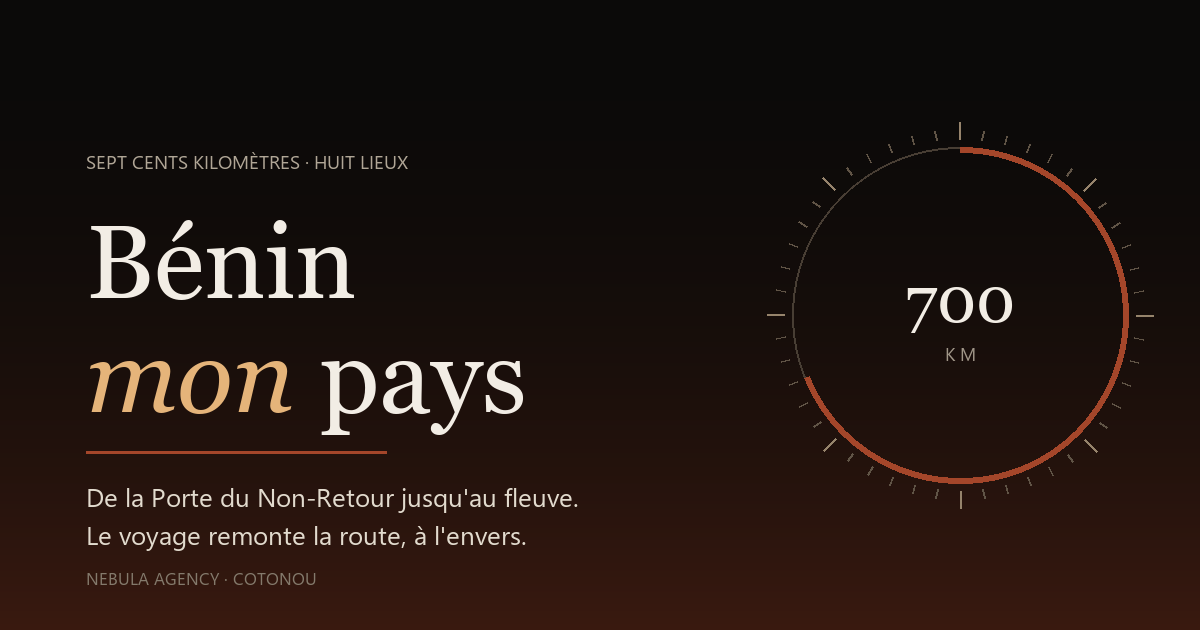
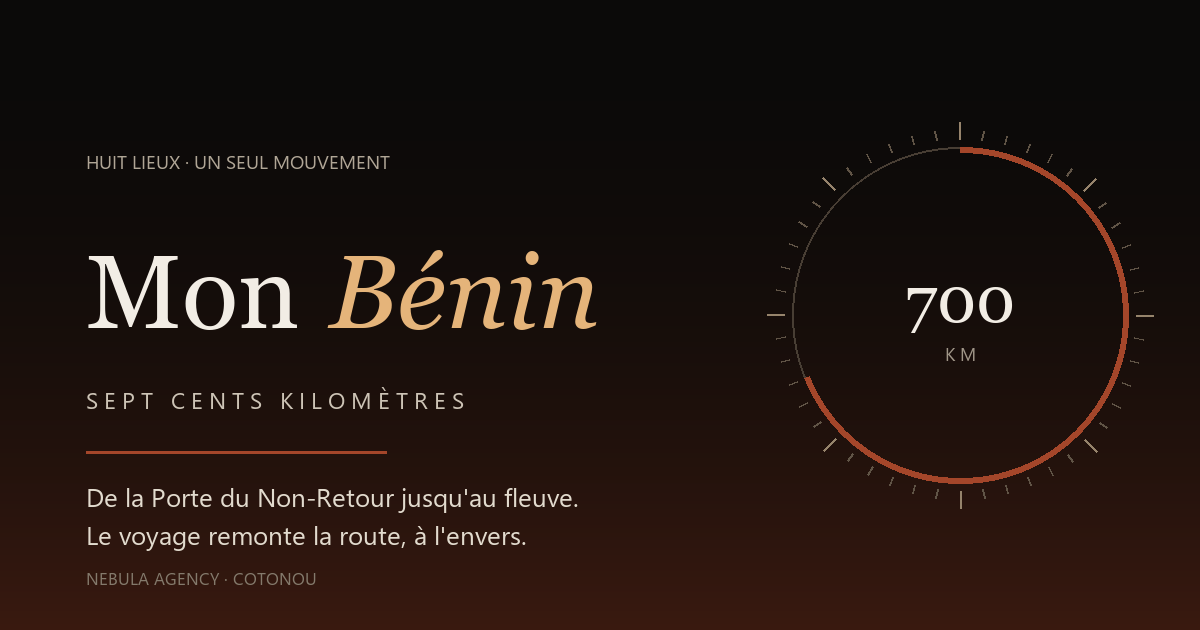
feat(mon-benin): le nom trancheD, la mise en ligne en dev, et 13 decisions actees
Mongazi a repondu aux questions. L'experience s'appelle desormais MON BENIN,
avec « sept cents kilometres » en signature, et elle est en ligne.

EN LIGNE (dev) : https://dev.mon-benin.pages.dev
Projet Cloudflare Pages « mon-benin », branche dev, production main (vide).
231 Ko la page entiere, 9 fichiers : la promesse des 3 secondes en 3G est
tenue par construction, pas par optimisation.

LES 13 DECISIONS
· nom MON BENIN + « sept cents kilometres »
· depart A LA PORTE du Non-Retour, on remonte la route a l'envers
· cible : la DIASPORA afro-descendante
· bilingue FR/EN des la sortie (consequence directe de la cible)
· 11 lieux : les 8 + Porto-Novo « retourner », Grand-Popo « meler »,
  Dassa « compter »
· photos sous licence a chercher, il en enverra d'autres
· sons generes, voix plus tard
· haltes d'artisans : oui, il demande leur accord
· l'annuaire d'entreprises est un SECOND objet, meme identite
· cap sur les Vodun Days de janvier
· vrai domaine plus tard, dev pour l'instant

CE QUI A ETE FAIT ICI
· renommage complet (titre, partage, JSON-LD, rideau, seuil, barre, pied)
  plus l'image de partage regeneree, et bump des ressources en 20260810a
· _dist.py : ne publie que ce qui doit l'etre, ecrit un 404.html (sans lui un
  fichier absent repond 200 et ce 200 est cache un an, panne vecue sur PISTE)
  et des en-tetes de cache qui epargnent index.html
· verification du CORPS servi, pas du code : chaque fichier est identique au
[…]

diff --git a/benin-mon-pays/index.html b/benin-mon-pays/index.html
@@ -3,25 +3,25 @@
 <head>
 <meta charset="utf-8">
 <meta name="viewport" content="width=device-width, initial-scale=1, viewport-fit=cover">
-<title>Bénin mon pays · De l'océan au fleuve</title>
+<title>Mon Bénin · Sept cents kilomètres, de l'océan au fleuve</title>
 <meta name="description" content="Un voyage de sept minutes à travers le Bénin, de la Porte du Non-Retour au fleuve Niger. Huit lieux, sept cents kilomètres, et le pays raconté par ceux qui le font.">
 <meta name="theme-color" content="#0b0a09">
 <meta name="author" content="NEBULA Agency">
 
 <meta property="og:type" content="website">
-<meta property="og:site_name" content="Bénin mon pays">
+<meta property="og:site_name" content="Mon Bénin">
 <meta property="og:locale" content="fr_FR">
-<meta property="og:title" content="Bénin mon pays · De l'océan au fleuve">
+<meta property="og:title" content="Mon Bénin · Sept cents kilomètres">
 <meta property="og:description" content="Sept cents kilomètres, huit lieux, un seul mouvement. Le Bénin comme vous ne l'avez jamais parcouru.">
-<meta property="og:image" content="assets/images/og.png?v=20260809a">
+<meta property="og:image" content="assets/images/og.png?v=20260810a">
 <meta property="og:image:width" content="1200">
 <meta property="og:image:height" content="630">
 <meta name="twitter:card" content="summary_large_image">
 
-<link rel="icon" href="assets/images/favicon.svg?v=20260809a" type="image/svg+xml">
+<link rel="icon" href="assets/images/favicon.svg?v=20260810a" type="image/svg+xml">
 <!-- Aucune police distante, aucune requête vers un tiers : la page doit
      s'ouvrir en moins de trois secondes sur un téléphone moyen en 3G. -->
-<link rel="stylesheet" href="assets/app.css?v=20260809a">
+<link rel="stylesheet" href="assets/app.css?v=20260810a">
 
 <script>document.documentElement.className = 'js';</script>
 
@@ -29,7 +29,7 @@
 {
   "@context": "https://schema.org",
   "@type": "TouristTrip",
-  "name": "Bénin mon pays, de l'océan au fleuve",
+  "name": "Mon Bénin, sept cents kilomètres de l'océan au fleuve",
   "description": "Un parcours de huit lieux à travers le Bénin, de la Porte du Non-Retour à Ouidah jusqu'au fleuve Niger, sur environ sept cents kilomètres.",
   "touristType": "Voyageur curieux du Bénin, diaspora afro-descendante",
   "itinerary": {
@@ -56,7 +56,7 @@
   <div class="rideau-h"></div>
   <div class="rideau-b"></div>
   <div class="rideau-c">
-    <p class="rideau-t">Bénin <i>mon</i> pays</p>
+    <p class="rideau-t">Mon <i>Bénin</i></p>
     <span class="rideau-f"></span>
     <p class="rideau-n"><b id="rideauN">0</b> <small>km</small></p>
   </div>
@@ -65,8 +65,9 @@
 <!-- ═══ LE SEUIL D'ENTRÉE (autorise le son) ═════════════════════ -->
 <div class="seuil" id="seuil" hidden>
   <div class="seuil-in">
-    <p class="seuil-k">Sept cents kilomètres · huit lieux</p>
-    <h1 class="seuil-t">Bénin <i>mon</i> pays</h1>
+    <p class="seuil-k">Huit lieux · un seul mouvement</p>
+    <h1 class="seuil-t">Mon <i>Bénin</i></h1>
+    <p class="seuil-sig">sept cents kilomètres</p>
     <p class="seuil-p">De la Porte du Non-Retour jusqu'au fleuve.<br>Le voyage remonte la route, à l'envers.</p>
     <button class="seuil-b" id="entrer" type="button">
       <span class="seuil-o" aria-hidden="true"></span>
@@ -78,7 +79,7 @@
 
 <!-- ═══ BARRE FIXE ══════════════════════════════════════════════ -->
 <header class="barre" id="barre">
-  <a class="barre-m" href="#station-0">Bénin mon pays</a>
+  <a class="barre-m" href="#station-0">Mon <i>Bénin</i></a>
   <nav class="barre-n" aria-label="Aller à un lieu">
     <button class="barre-b" id="ouvrirCarte" type="button" aria-expanded="false" aria-controls="carte">
       <span aria-hidden="true"></span><span aria-hidden="true"></span>
@@ -311,7 +312,7 @@
 
 <footer class="pied">
   <div class="pied-in">
-    <p class="pied-t">Bénin mon pays</p>
+    <p class="pied-t">Mon <i>Bénin</i></p>
     <p class="pied-p">Une expérience éditoriale indépendante, écrite et construite à Cotonou par <strong>NEBULA Agency</strong>.</p>
     <p class="pied-s">Les distances sont des latitudes converties en kilomètres depuis la côte, arrondies. Les dates et les faits cités sont publics et vérifiables. Aucune image de ce site ne prétend représenter un lieu qu'elle ne représente pas : les visuels sont des relevés dessinés, en attendant les photographies.</p>
     <p class="pied-c">© <span id="an">2026</span> NEBULA Agency · Cotonou, Bénin</p>
@@ -320,6 +321,6 @@
 
 <div class="curseur" id="curseur" aria-hidden="true"><span></span></div>
 
-<script src="assets/app.js?v=20260809a" defer></script>
+<script src="assets/app.js?v=20260810a" defer></script>
 </body>
 </html>

diff --git a/benin-mon-pays/assets/app.css b/benin-mon-pays/assets/app.css
@@ -162,7 +162,16 @@ body.rideau-la { overflow: hidden; }
 }
 .seuil-t i { font-style: italic; color: #d99a5e; }   /* 7,4:1 sur l'encre */
 
+/* La signature demandée par Mongazi, sous le nom. */
+.seuil-sig {
+  margin: 0 0 26px;
+  font-size: 11.5px; letter-spacing: .42em; text-transform: uppercase;
+  color: #cdc4b6;
+}
 .seuil-p { margin: 0 0 40px; color: var(--clair-d); }
+
+/* Le nom porte son italique partout où il apparaît. */
+.barre-m i, .pied-t i { font-style: italic; color: #e0a878; }
 
 .seuil-b {
   display: inline-flex; align-items: center; gap: 14px;

diff --git a/benin-mon-pays/_dist.py b/benin-mon-pays/_dist.py
@@ -1,0 +1,94 @@
+# -*- coding: utf-8 -*-
+"""Prepare _dist/ : uniquement ce qui doit etre en ligne.
+
+Les scripts, le QC et le CONTEXT restent au chaud. Ecrit aussi un 404.html :
+sans lui, un fichier absent repond 200 sur Cloudflare Pages, et ce 200 est
+mis en cache un an (panne vecue sur PISTE).
+"""
+import io
+import os
+import shutil
+
+ICI = os.path.dirname(os.path.abspath(__file__))
+DIST = os.path.join(ICI, "_dist")
+
+GARDE = [
+    "index.html",
+    "assets/app.css",
+    "assets/app.js",
+    "assets/fonts/bodoni-normal.woff2",
+    "assets/fonts/bodoni-italic.woff2",
+    "assets/images/favicon.svg",
+    "assets/images/og.png",
+]
+
+if os.path.isdir(DIST):
+    shutil.rmtree(DIST)
+os.makedirs(DIST)
+
+total = 0
+for rel in GARDE:
+    src = os.path.join(ICI, rel)
+    if not os.path.exists(src):
+        raise SystemExit("MANQUE : " + rel)
+    dst = os.path.join(DIST, rel)
+    os.makedirs(os.path.dirname(dst), exist_ok=True)
+    shutil.copy2(src, dst)
+    t = os.path.getsize(dst)
+    total += t
+    print("  %-42s %7.1f Ko" % (rel, t / 1024.0))
+
+# la page d'erreur, sobre et autonome
+err = """<!DOCTYPE html>
+<html lang="fr"><head><meta charset="utf-8">
+<meta name="viewport" content="width=device-width,initial-scale=1">
+<title>Page introuvable · Mon Bénin</title>
+<style>
+html,body{margin:0;height:100%;background:#0b0a09;color:#f2ede5;
+ font-family:ui-sans-serif,system-ui,'Segoe UI',Roboto,Arial,sans-serif;
+ display:grid;place-items:center;text-align:center;padding:24px}
+h1{font-family:Georgia,'Noto Serif',serif;font-weight:300;
+ font-size:clamp(32px,7vw,64px);margin:0 0 14px;letter-spacing:-.01em}
+p{color:#cdc4b6;margin:0 0 26px;max-width:34em}
+a{display:inline-flex;align-items:center;min-height:52px;padding:0 28px;
+ border:1px solid rgba(242,237,229,.34);border-radius:999px;color:inherit;
+ text-decoration:none;font-size:12px;letter-spacing:.24em;text-transform:uppercase}
+a:hover{background:rgba(242,237,229,.07)}
+</style></head><body><main>
+<h1>Cette route n'existe pas</h1>
+<p>La page demandée est introuvable. Le voyage, lui, commence toujours au même
+endroit : sur le sable, au kilomètre zéro.</p>
+<a href="/">Revenir au départ</a>
+</main></body></html>
+"""
+p404 = os.path.join(DIST, "404.html")
+io.open(p404, "w", encoding="utf-8", newline="\n").write(err)
+total += os.path.getsize(p404)
+print("  %-42s %7.1f Ko" % ("404.html", os.path.getsize(p404) / 1024.0))
+
+# en-tetes : les ressources versionnees peuvent etre gardees longtemps,
+# mais JAMAIS index.html ni la page d'erreur.
+head = """/assets/fonts/*
+  Cache-Control: public, max-age=31536000, immutable
+
+/assets/images/*
+  Cache-Control: public, max-age=31536000, immutable
+
+/assets/app.*
+  Cache-Control: public, max-age=31536000, immutable
+
+/index.html
+  Cache-Control: public, max-age=0, must-revalidate
+
+/404.html
+  Cache-Control: public, max-age=0, must-revalidate
+
+/
+  Cache-Control: public, max-age=0, must-revalidate
+"""
+ph = os.path.join(DIST, "_headers")
+io.open(ph, "w", encoding="utf-8", newline="\n").write(head)
+print("  %-42s %7.1f Ko" % ("_headers", os.path.getsize(ph) / 1024.0))
+
+n = sum(len(f) for _, _, f in os.walk(DIST))
+print("\n_dist : %d fichiers, %.2f Mo" % (n, total / 1048576.0))

diff --git a/benin-mon-pays/_images.py b/benin-mon-pays/_images.py
@@ -103,13 +103,15 @@ def og():
 
     # le titre, à gauche
     x0 = 86
-    d.text((x0, 148), "SEPT CENTS KILOMÈTRES · HUIT LIEUX", font=SANS(19), fill=(176, 166, 150))
-    d.text((x0, 202), "Bénin", font=SERIF(104), fill=CLAIR)
+    d.text((x0, 148), "HUIT LIEUX · UN SEUL MOUVEMENT", font=SANS(19), fill=(176, 166, 150))
+    f_n = SERIF(104)
     f_i = SERIF_I(104)
-    d.text((x0, 316), "mon", font=f_i, fill=OR)
-    # on mesure « mon » au lieu de deviner : l'italique déborde de sa boîte
-    lm = d.textbbox((x0, 316), "mon", font=f_i)[2] - x0
-    d.text((x0 + lm + 26, 316), "pays", font=SERIF(104), fill=CLAIR)
+    d.text((x0, 232), "Mon", font=f_n, fill=CLAIR)
+    # on mesure au lieu de deviner : l'italique déborde de sa boîte
+    lm = d.textbbox((x0, 232), "Mon", font=f_n)[2] - x0
+    d.text((x0 + lm + 30, 232), "Bénin", font=f_i, fill=OR)
+    d.text((x0, 384), "S E P T   C E N T S   K I L O M È T R E S",
+           font=SANS(23), fill=(205, 196, 182))
     d.line([x0, 452, x0 + 300, 452], fill=TERRE, width=3)
     d.text((x0, 478), "De la Porte du Non-Retour jusqu'au fleuve.", font=SANS(26), fill=(226, 219, 206))
     d.text((x0, 516), "Le voyage remonte la route, à l'envers.", font=SANS(26), fill=(226, 219, 206))

diff --git a/CLAUDE.md b/CLAUDE.md
@@ -137,7 +137,7 @@
   données : ne jamais y recopier un chiffre ou un nom de métier.
 - **Source de vérité : `piste/PRODUCT.md`**, 88 décisions.
 
-### BÉNIN MON PAYS — l'expérience du pays  *(objet éditorial, pas un SaaS)*
+### MON BÉNIN — l'expérience du pays  *(objet éditorial, pas un SaaS)*
 - **Ce que c'est** : « pas un site sur le Bénin, **un voyage au Bénin qui dure
   sept minutes** ». 8 stations dans l'ordre réel de la latitude, de la **Porte
   du Non-Retour (km 0)** au **fleuve Niger (km 617)**, sur une échelle de 700 km.
@@ -150,9 +150,27 @@
   et rien ne se tire au sort.
 - **Où** : `benin-mon-pays/` · `python benin-mon-pays/_qc.py` (**63 contrôles**),
   `_voir.py` (planches 390 + 1440, à REGARDER), `_images.py`.
-- ⚠ **NOM PAS TRANCHÉ** (Bénin mon pays · MON BÉNIN · SEPT CENTS · REMONTER) et
-  **PAS DÉPLOYÉ, volontairement** : le nom et le point de départ sont des
-  décisions de Mongazi. **10 questions posées le 2026-08-09, sans réponse.**
+- **LIVE (dev) : https://dev.mon-benin.pages.dev** · projet Cloudflare Pages
+  `mon-benin`, branche `dev` · publier = `python benin-mon-pays/_dist.py` puis
+  déployer `_dist` · **231 Ko la page entière**, donc les 3 s en 3G sont tenues
+  par construction · ⚠ un agent non navigateur reçoit **403** sur `*.pages.dev`
+  (filtrage de bots) : vérifier avec un vrai `User-Agent`.
+- **13 décisions prises par Mongazi le 2026-08-10** : nom **MON BÉNIN** +
+  « sept cents kilomètres » · **départ à la Porte** · cible **diaspora
+  afro-descendante** · **bilingue FR/EN dès la sortie** · **11 lieux** (les 8 +
+  Porto-Novo « retourner », Grand-Popo « mêler », Dassa « compter ») · photos
+  **sous licence à chercher** · **sons générés (WaveSpeed)** · voix **plus tard**
+  · haltes **oui, Mongazi demande l'accord des 5 artisans** · annuaire **en objet
+  SÉPARÉ, même identité** · **cap sur les Vodun Days de janvier**.
+- ⚠ **Le son généré est une MATIÈRE, pas un document.** Une ambiance fabriquée
+  présentée comme « le bruit de Ganvié » est le même mensonge qu'une photo
+  générée du lieu. À écrire dans les crédits, à remplacer par de vrais
+  enregistrements. ⚠ **Vérifier que WaveSpeed fait de l'audio** avant d'y
+  dépenser un crédit.
+- ⚠ **L'annuaire d'entreprises (« un Google My Business béninois, ultra stylé »)
+  est un SECOND objet**, pas une couche du voyage : un parcours linéaire de 11
+  lieux ne porte pas 5 000 fiches. **Note due à Mongazi** : ce que perdrait PISTE
+  (100 F la fiche, exclusivité 90 j) contre ce que gagnerait l'annuaire.
 - ⚠ **Les km sont des latitudes converties**, pas des distances routières
   (Cotonou→Malanville fait ~730 km par la route et casserait l'échelle).
 - ⛔ **Aucune image générée d'un lieu réel.** En attendant les photos, le site est

diff --git a/benin-mon-pays/CONTEXT.md b/benin-mon-pays/CONTEXT.md
@@ -1,9 +1,15 @@
-# BÉNIN MON PAYS · l'expérience
+# MON BÉNIN · l'expérience
 
-> Nom **provisoire**. Trois autres sont sur la table : MON BÉNIN, SEPT CENTS,
-> REMONTER. Mongazi tranche. Le nom apparaît dans le `<title>`, l'image de
-> partage, le JSON-LD, le rideau et le pied : **le changer touche 6 endroits**,
-> tous listés en fin de fiche.
+> **Nom tranché par Mongazi le 2026-08-10 : « Mon Bénin »**, avec **« sept cents
+> kilomètres »** en signature. Le dossier garde son ancien nom `benin-mon-pays/`.
+>
+> ## 🌍 EN LIGNE (dev) : **https://dev.mon-benin.pages.dev**
+> Projet Cloudflare Pages `mon-benin`, branche `dev`, production `main` (vide).
+> Publier : `python benin-mon-pays/_dist.py` puis déployer `_dist` sur `dev`.
+> ⚠ Un agent non navigateur reçoit **403** sur `*.pages.dev` (filtrage de bots
+> Cloudflare). Vérifier avec un vrai `User-Agent`, et **rouvrir les robots IA sur
+> le vrai domaine** quand il sera acheté (`PUT /zones/{zone}/bot_management`).
+> **Vrai domaine : plus tard**, Mongazi l'achètera.
 
 Produit **interne NEBULA**, pas une vitrine client. Il ne vit pas dans
 `clients/`.
@@ -39,10 +45,9 @@ un pays en couloir. Donc **le défilement est la route**, et l'anneau du coin es
 Et le voyage **part de la Porte du Non-Retour, sur le sable, et remonte** la
 Route des Esclaves vers l'intérieur : le visiteur refait le chemin à l'envers.
 
-⚠ **Décision réservée à Mongazi** (question 3 posée le 2026-08-09, sans réponse
-à ce jour) : ouvrir sur la mémoire de l'esclavage, ou sur quelque chose de
-lumineux, et placer la Porte au milieu. Tout est écrit pour qu'un
-réordonnancement soit une simple permutation des `<section class="st">`.
+✅ **Tranché le 2026-08-10 : on part de la Porte.** Mongazi a choisi d'ouvrir
+sur la mémoire. Tout reste écrit pour qu'un réordonnancement soit une simple
+permutation des `<section class="st">`.
 
 ## 4. Les huit stations
 
